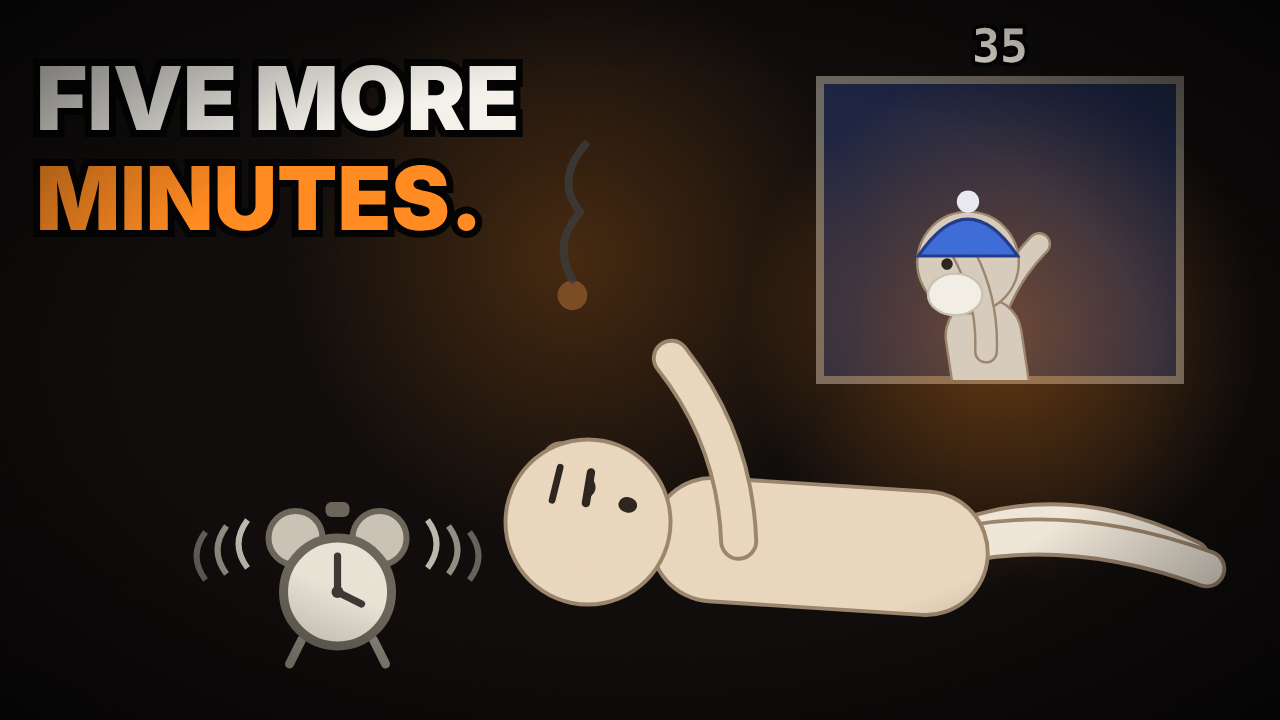
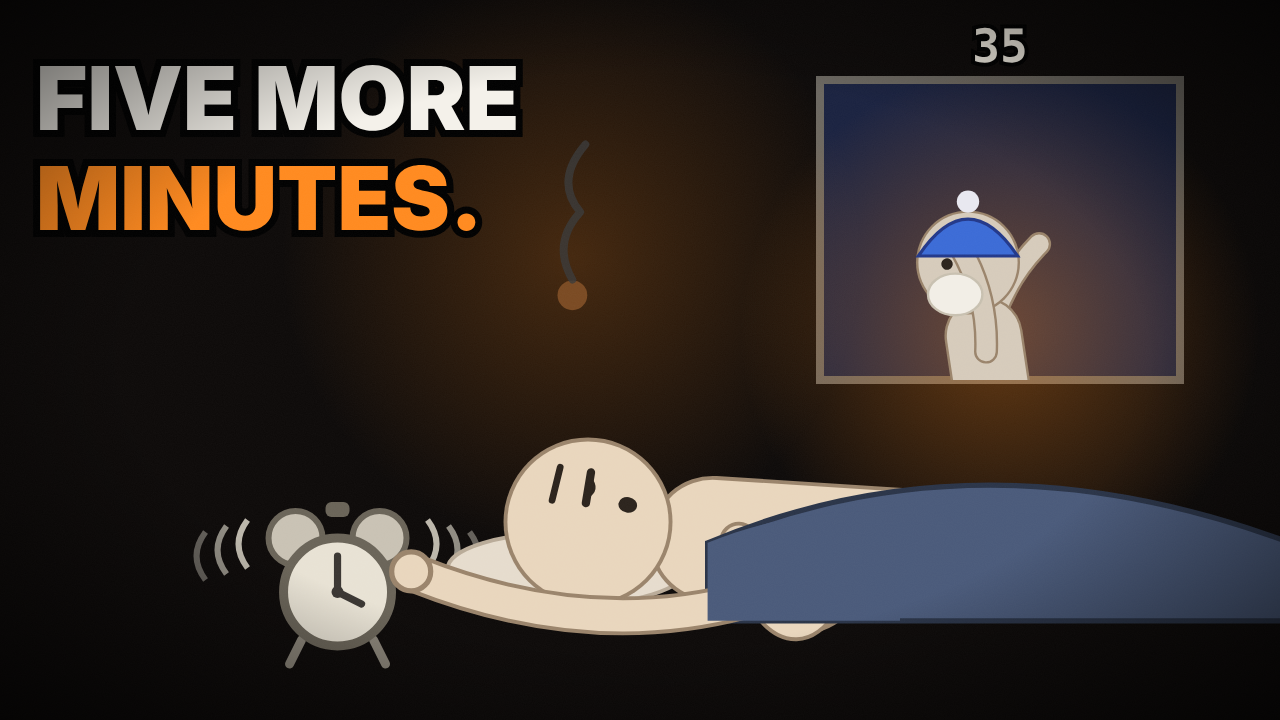
SNOOZE đã duyệt: thumbnail A nằm đắp chăn với tay tới đồng hồ; UPLOAD.md đầy đủ (tiêu đề dự phòng, chi tiết tải lên, thẻ, Shorts); cập nhật lộ trình và CLAUDE.md
Claude-Session: https://claude.ai/code/session_01D563dT2ZpFvoT58NnMU5yo

Changed region(s): [[0.2812, 0.4583, 1.0, 0.8861]]

diff --git a/docs/day-one-films/video-snooze/ve-thumbnail.js b/docs/day-one-films/video-snooze/ve-thumbnail.js
@@ -18,8 +18,14 @@ const ART = () => {
       const G = K.bentPose(1000, 560, -1); G.lh = [940, 250]; G.le = [960, 300]; G.rh = [1080, 250]; G.re = [1050, 300];
       s += `<svg x="820" y="80" width="360" height="300" overflow="hidden"><g transform="translate(-820,-80) translate(1000,560) scale(1.6) translate(-1000,-560)">` + K.gpa(G, { mood: 'sad' }) + `<line x1="940" y1="250" x2="925" y2="170" stroke="#6a5038" stroke-width="3"/><line x1="1080" y1="250" x2="1095" y2="170" stroke="#6a5038" stroke-width="3"/></g></svg>`;
       s += at(330, 640, 3.0, K.alarm(0, 0, 1, 0.3));
-      const J = K.lieBed(0, 0); J.rh = [-138, -57]; J.re = [-110, -20];
-      s += at(900, 600, 2.6, K.fig(J, { flame: 0.1, t: T, mood: 'drowsy' }));
+      // nằm đắp chăn, gối dưới đầu; một tay thò ra khỏi chăn với về phía đồng hồ đang reo
+      const J = K.lieBed(0, 0); J.lh = [J.hip[0] - 30, J.hip[1] - 6]; J.le = [J.hip[0] - 50, J.hip[1] - 16]; J.rh = [J.hip[0] - 20, J.hip[1] - 4]; J.re = [J.hip[0] - 40, J.hip[1] - 14];
+      s += at(900, 600, 2.6, `<ellipse cx="-128" cy="-12" rx="46" ry="14" fill="#e6dccd" stroke="#b9ab98" stroke-width="1.5"/>` + K.fig(J, { flame: 0.1, t: T, mood: 'drowsy' }) +
+        `<path d="M-74,-22 Q40,-70 170,-14 L170,8 L-74,8Z" fill="#4a5a7a" stroke="#2a3448" stroke-width="2"/>` +
+        // tay duỗi dọc gối, dưới cằm, chạm tới đồng hồ
+        `<path d="M-60,0 Q-120,16 -186,-10" fill="none" stroke="#9a846b" stroke-width="15" stroke-linecap="round"/><path d="M-60,0 Q-120,16 -186,-10" fill="none" stroke="#e9d6bd" stroke-width="12" stroke-linecap="round"/>` +
+        `<path d="M-74,-22 Q-40,-36 0,-34 L0,8 L-74,8Z" fill="#4a5a7a"/>` +
+        `<circle cx="-188" cy="-11" r="7.5" fill="#e9d6bd" stroke="#9a846b" stroke-width="2"/>`);
       // số ngày còn lại trên đầu ông
       s += `<text x="1000" y="62" fill="#f4efe4" font-family="${K.MONO}" font-size="46" font-weight="800" text-anchor="middle" stroke="#000" stroke-width="8" paint-order="stroke">35</text>`;
       s += big(36, 130, 'FIVE MORE', { size: 88 }) + big(36, 230, 'MINUTES.', { size: 88, c: ORANGE });

diff --git a/docs/day-one-films/CLAUDE.md b/docs/day-one-films/CLAUDE.md
@@ -108,13 +108,14 @@ Mất khoảng 15–20 phút cho mỗi phim 2:45.
 | 2 | TOMORROW | "tomorrow." · "there's always tomorrow." | Lịch tường; TOMORROW → TODAY | Bước đều, mỗi bước một ngày đã tập (DAY 1…45) | Đã duyệt |
 | 3 | PERFECT | "not good enough." · "why even show it?" | `ERASED ×312 / FINISHED 0`; PERFECT → DONE | Ký tên giữa 7 vòng bút đỏ | Đã duyệt |
 | 4 | COMPARE | "look at them." · "you'll never catch up." · "i told you." | Thước dây, `YOU vs THEM −88%`; THEM → YESTERDAY; hồi tưởng vạch chiều cao | Ollie ở dốc nhỏ, thước gãy | Đã duyệt (v3) |
-| 5 | SNOOZE | "five more minutes." · "it's still dark" · "next time" | Lọ "MISSED" chứa mặt trời; số ngày còn sống trên đầu (ông 60); SNOOZE → RISE | Không có cái bóng ở trận cuối: sáng chủ nhật con số tụt 1, Spark hất chăn, chữ "five more minutes." vỡ vụn. Bước ngoặt là đám tang bà hàng xóm (gieo 10 → 3 → 1). Kết: hai ly ca cao, một ly trên ghế trống | v4, chờ anh xem |
+| 5 | SNOOZE | "five more minutes." · "it's still dark" · "next time" | Lọ "MISSED" chứa mặt trời; số ngày còn sống trên đầu (ông 60); SNOOZE → RISE | Không có cái bóng ở trận cuối: sáng chủ nhật con số tụt 1, Spark hất chăn, chữ "five more minutes." vỡ vụn. Bước ngoặt là đám tang bà hàng xóm (gieo 10 → 3 → 1). Kết: hai ly ca cao, một ly trên ghế trống | Đã duyệt (v4) |
 
 ## Ghi chú kỹ thuật (bẫy đã gặp)
 
 - **Bộ máy mới** (COMPARE, SNOOZE): `limb()` vẽ tay chân là đường cong bậc hai qua khớp. `ikArm` cho khuỷu luôn bẻ xuống (chỉ theo gợi ý khi giơ tay cao) để không lật khuỷu khi tay chuyển động nhanh.
 - **Kích thước nhân vật:** trong `frame()`, `ZOOM = 0.8` làm nhân vật nhỏ đi 20%, công thức `cy` giữ đường mặt đất y = 560 cố định trên màn hình. Chữ giao diện bọc trong `ui()` để không bị phóng.
-- **Hồi tưởng chèn giữa phim:** COMPARE có cơ chế `FLASH_A/FLASH_LEN` trong `frame()`. Thời gian phim gốc dời đi, `WH` dời theo, còn `am-thanh.py` dùng cờ `SHIFT`.
+- **Hồi tưởng chèn giữa phim:** COMPARE có cơ chế `FLASH_A/FLASH_LEN` trong `frame()`. SNOOZE dùng cách tổng quát hơn: bảng `EDL` cắt, chèn, đảo thứ tự cảnh; `am-thanh.py` dùng cùng bảng.
+- **AAC vọt đỉnh với âm cao** (tiếng "tinh"): `dung-video.sh` của SNOOZE thêm `lowpass=f=16000` trước bộ chặn đỉnh.
 - **Lời thì thầm:** hàm `whispers()` ước lượng bề rộng chữ để không tràn mép. Nếu kẻ thù đứng sát mép trái, chữ sẽ bị đẩy đè lên đầu nó, khi đó dời camera (`STAND(x)`) sang trái.
 - **SVG lồng:** thẻ `<svg x y>` lồng trong SVG khác có toạ độ riêng, phải bù `translate(-x,-y)`. Đã gặp lỗi này ở thumbnail SNOOZE.
 - **AAC làm vọt đỉnh** khoảng 1 dB: dùng `alimiter limit=0.56` ở 192 kHz.
@@ -123,6 +124,6 @@ Mất khoảng 15–20 phút cho mỗi phim 2:45.
 
 ## Việc đang chờ
 
-- SNOOZE: v4 (xem đầu `video-snooze/story.md`). Cắt và chèn cảnh bằng bảng `EDL` (giờ phim gốc → giờ thật) trong `scene.js` và `am-thanh.py`; cảnh chèn đánh dấu `{ ins: true }`, âm thanh chèn dùng `ins=True`, giọng thì thầm dùng `raw=True`.
+- SNOOZE: đã duyệt v4, bộ đăng trong `video-snooze/UPLOAD.md`. Ghi chú kỹ thuật: Cắt và chèn cảnh bằng bảng `EDL` (giờ phim gốc → giờ thật) trong `scene.js` và `am-thanh.py`; cảnh chèn đánh dấu `{ ins: true }`, âm thanh chèn dùng `ins=True`, giọng thì thầm dùng `raw=True`.
 - Phim tiếp theo: anh chọn trong mục 7 của `ho-so-kenh.md`.
 - Phía anh: tạo kênh với handle `@keepthefirefilms`, tải ảnh nhận diện, đăng theo `UPLOAD.md` từng phim. Lịch đăng thứ Năm, 18:00 giờ New York.

diff --git a/docs/day-one-films/video-snooze/UPLOAD.md b/docs/day-one-films/video-snooze/UPLOAD.md
@@ -1,11 +1,14 @@
-# SNOOZE: bộ đăng YouTube
+# SNOOZE: bộ đăng YouTube (đã duyệt, v4)
 
-File tải lên: `SNOOZE-dang-youtube.mp4` (phim 2:24 đã nối sẵn 6 giây màn hình kết thúc, tổng 2:30).
+File tải lên: `SNOOZE-dang-youtube.mp4`. Phim dài 2:24, nối sẵn 6 giây màn hình kết thúc, tổng 2:30, 1920×1080, 24 fps. Âm thanh −15.7 LUFS, đỉnh −1.4 dB.
 
 **Tiêu đề:**
 ```
 SNOOZE | An Animated Short Film
 ```
+Tiêu đề dự phòng (khi thử tiêu đề, giữ "SNOOZE |" ở đầu):
+- `SNOOZE | What If You Could See How Many Days They Have Left?`
+- `SNOOZE | A Short Film About the Mornings We Sleep Through`
 
 **Mô tả:**
 ```
@@ -31,9 +34,9 @@ Subscribe: https://www.youtube.com/@keepthefirefilms?sub_confirmation=1
 ```
 
 **Thẻ (tags):**
-`snooze animated short film, snooze button, wake up early, morning motivation, grandpa, fishing at sunrise, missed moments, days left, time with grandparents, animated short film, motivational animation, wordless short film, keep the fire, self improvement animation, family, sunrise`
+`snooze animated short film, snooze button, wake up early, morning motivation, grandpa, grandfather, fishing at sunrise, missed moments, days left, time with grandparents, life is short, animated short film, motivational animation, wordless short film, keep the fire, self improvement animation, family, sunrise, emotional short film`
 
-**Bình luận ghim:**
+**Bình luận ghim** (đăng ngay sau khi công khai):
 ```
 Grandpa's number was 60. Spark slept through 21 of those mornings.
 If you could see the number above someone you love, would you still hit snooze? 👇
@@ -43,15 +46,27 @@ If you could see the number above someone you love, would you still hit snooze? 
 
 | Bản | Nội dung | Dùng khi |
 |---|---|---|
-| **A "FIVE MORE MINUTES."** | Spark nằm ngái ngủ, đồng hồ reo; ông nội ngoài cửa sổ giơ tay, trên đầu ông số 35 | **Bản chính.** Nói ra nỗi đau, không lộ kết |
+| **A "FIVE MORE MINUTES."** | Spark nằm đắp chăn, ngái ngủ, tay với tới đồng hồ đang reo. Ông nội ngoài cửa sổ giơ tay, trên đầu ông số 35 | **Bản chính.** Nói ra nỗi đau và con số, không lộ kết |
 | B "MISSED 21 SUNRISES." | Lọ "MISSED" đầy những mặt trời nhỏ bị nhốt | Bản thử với A trong "Thử nghiệm và so sánh" |
 | C "WAKE UP FOR THEM." | Hai ông cháu ngồi câu trên bến lúc bình minh | Dự phòng. Bản này lộ kết phim nên để sau |
 
+**Chi tiết khi tải lên:**
+- Danh mục Film & Animation, ngôn ngữ video English.
+- **Không** dành cho trẻ em. Nội dung thay đổi hoặc tổng hợp: **Không**.
+- Phụ đề: không cần. Phim không lời, chữ trong hình đã là tiếng Anh.
+
 **Danh sách phát:** Battles Inside (All Films), Discipline.
 
-**Màn hình kết thúc:** dùng mẫu như các phim trước. Mọi phần tử bắt đầu ở 2:24.
+**Màn hình kết thúc:** dùng mẫu "1 video + 1 video + đăng ký" như các phim trước. Mọi phần tử bắt đầu ở **2:24**.
 - Trái: COMPARE.
 - Phải: "Video phù hợp nhất với người xem".
 - Giữa: nút đăng ký.
 
-**Lịch đăng:** thứ Năm tuần kế tiếp COMPARE, 18:00 giờ New York.
+**Thẻ (card) trong video:** ở 0:45, lúc Spark gặp bà cụ số 1, gắn thẻ tới TOMORROW (cùng chủ đề "để mai").
+
+**Lịch đăng:** thứ Năm tuần kế tiếp COMPARE, 18:00 giờ New York (thứ Sáu 05:00 giờ Việt Nam).
+
+**Shorts cắt từ phim** (dọc 9:16, 30–45 giây, gắn "Video liên quan" về phim dài):
+1. 0:00–0:45: con số 60, ông gõ cửa, bấm báo lại, lọ MISSED, bà cụ số 10 → 3 → 1.
+2. 0:45–1:05: đám tang, số của ông 35, "he has no time...".
+3. 1:42–2:05: sáng chủ nhật, chữ "five more minutes." vỡ vụn, hai ly ca cao trên bến.

diff --git a/docs/day-one-films/kenh-keep-the-fire/ho-so-kenh.md b/docs/day-one-films/kenh-keep-the-fire/ho-so-kenh.md
@@ -131,7 +131,7 @@ Mỗi phim theo công thức 6 nhịp trong `../ke-hoach-trien-khai.md`. Kẻ th
 | 1 | SCROLL ✅ `video-scroll/` | "just one more" | Sợi lửa bị hút vào điện thoại | Phone & Focus |
 | 2 | TOMORROW ✅ `video-tomorrow/` | "tomorrow." | Lịch tường: mỗi tờ kẻ thù viết "tomorrow" và nhốt một đốm lửa. Lỡ buổi open mic, rồi TOMORROW thành TODAY | Discipline |
 | 3 | COMPARE ✅ `video-compare/` (làm thứ 4) | "look at them." | Công viên trượt ván: thước dây đo lửa với người khác (−88%). Khung cửa có vạch chiều cao hồi nhỏ, THEM thành YESTERDAY | Mind & Courage |
-| 4 | SNOOZE ✅ `video-snooze/` (làm thứ 5) | "five more minutes." | Ông nội gõ cửa lúc 5:55 rủ đi câu. Mỗi lần bấm báo lại, một mặt trời nhỏ rơi vào lọ "MISSED". Trên đầu mỗi người có số ngày còn sống; gặp bà cụ số 1, hôm sau đám tang, Spark thấy ông chỉ còn 35. SNOOZE thành RISE, kéo rèm cho nắng làm bóng tan | Discipline |
+| 4 | SNOOZE ✅ `video-snooze/` (làm thứ 5) | "five more minutes." | Ông nội gõ cửa lúc 5:55 rủ đi câu. Mỗi lần bấm báo lại, một mặt trời nhỏ rơi vào lọ "MISSED". Trên đầu mỗi người có số ngày còn sống; bà cụ hàng xóm 10 → 3 → 1, hôm sau đám tang, Spark thấy ông chỉ còn 35. SNOOZE thành RISE; sáng chủ nhật hất chăn dậy; kết bằng hai ly ca cao, một ly trên ghế trống | Discipline |
 | 5 | FEAR | "what if you fail" | Lửa bị bóng tối nuốt mỗi khi định giơ tay | Mind & Courage |
 | 6 | NOTIFICATION | "someone texted you" | Mỗi tiếng ting dập một ngọn lửa đang tập trung | Phone & Focus |
 | 7 | QUIT | "it's too hard" | Lửa lúc tập gym, dừng ở rep cuối | Discipline |

diff --git a/docs/day-one-films/video-snooze/story.md b/docs/day-one-films/video-snooze/story.md
@@ -1,6 +1,11 @@
-# SNOOZE | An Animated Short Film: kế hoạch (đã DUYỆT 1 + 2, chọn A)
+# SNOOZE | An Animated Short Film: kế hoạch (đã DUYỆT 1 + 2 + 3, bản cuối v4)
 
-**v4 (làm theo review kể chuyện), phim dài 2:24, bản đăng 2:30:**
+**v4 (làm theo review kể chuyện), phim dài 2:24, bản đăng 2:30, anh đã duyệt:**
+- Sửa thêm sau v4:
+  - Ở đám tang ông chỉ lặng nhìn cháu, không cười, không vẫy.
+  - Chữ "Wake up for them." hiện từ chỗ trống.
+  - 6:30: đang ngủ đắp chăn rồi bừng tỉnh.
+  - Ra bến: Spark đi trước, xách ghế và cần câu, dẫn ông tới chỗ câu.
 1. Mở phim: 1.6 giây đầu chỉ có con số **60** sáng trong bóng tối, kèm tiếng "tách". Sau đó camera lùi từ con số ra, thấy ông ngoài cửa sổ.
 2. Ông gõ cửa lần 1 vẽ trên rèm, rõ như lần 2.
 3. Gieo bà cụ từ sớm:
